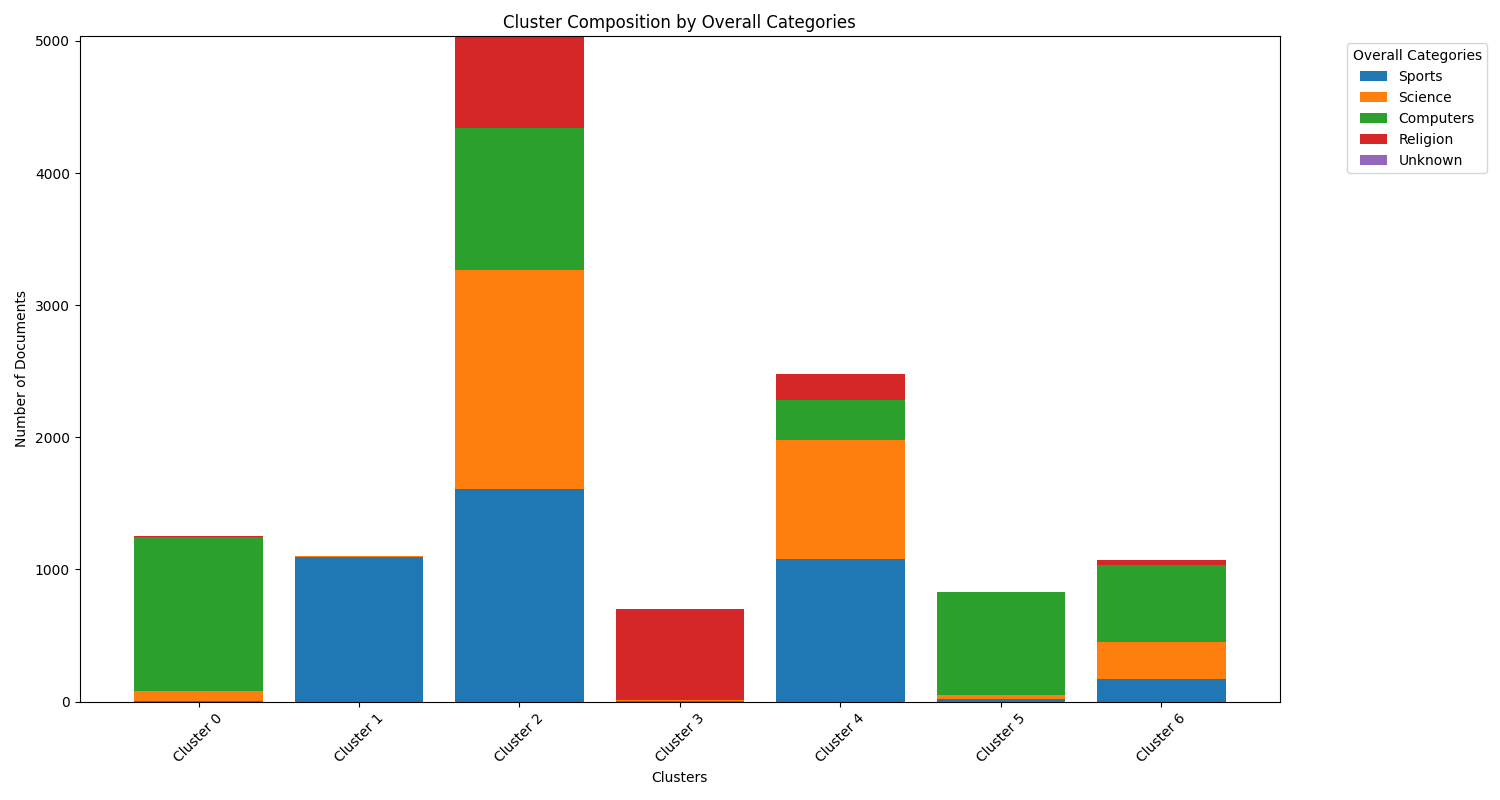
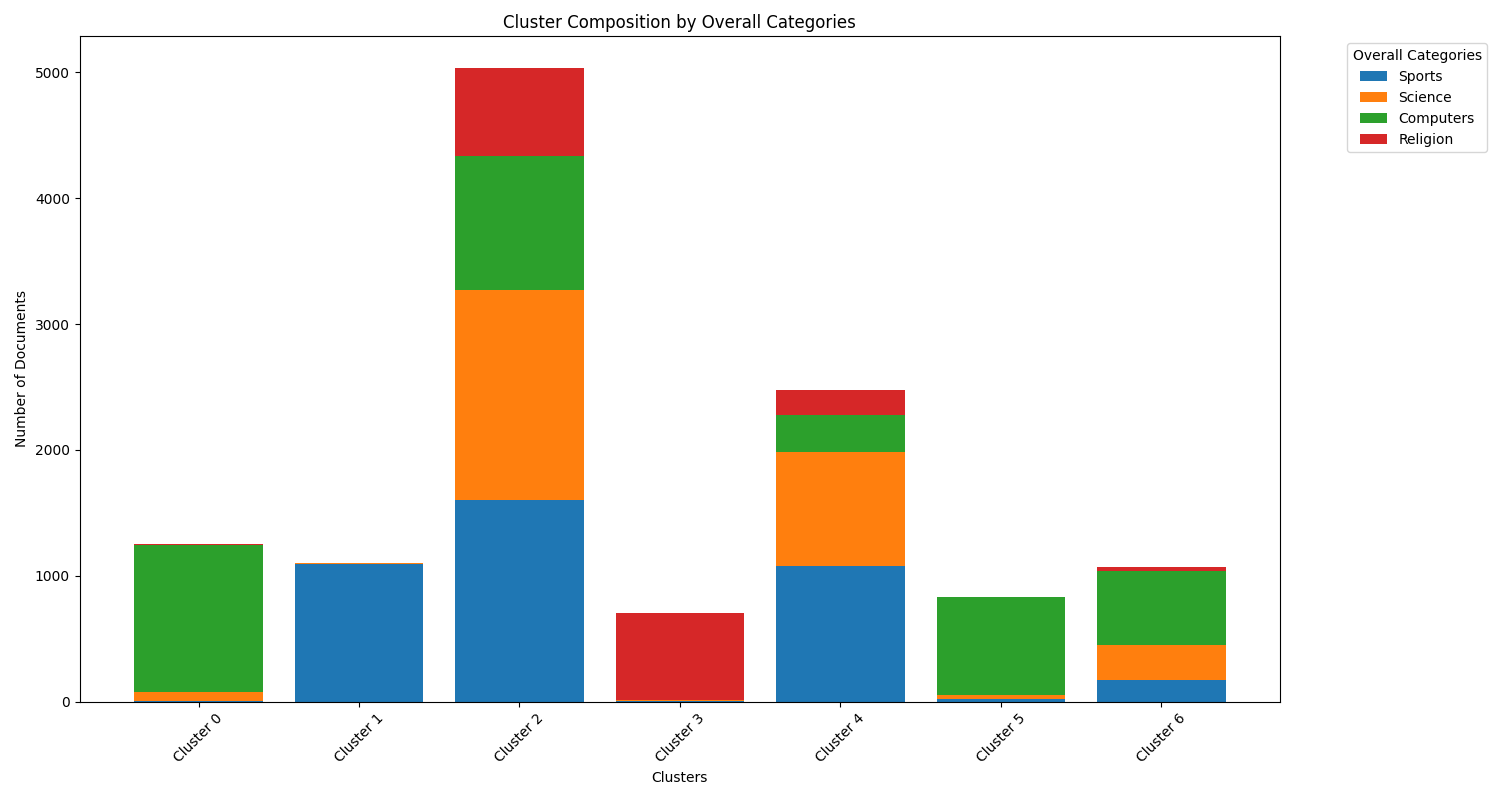
fixed one of the plots

diff --git a/evaluation/evaluation_kmeans.py b/evaluation/evaluation_kmeans.py
@@ -248,7 +248,7 @@ def visualize_cluster_counts(kmeans_labels, categories_of_documents):
         cluster_overall_counts[cluster] = overall_counts
 
     clusters_sorted = sorted(cluster_overall_counts.keys())
-    all_overall_categories = ["Sports", "Science", "Computers", "Religion", "Unknown"]
+    all_overall_categories = ["Sports", "Science", "Computers", "Religion"]
 
     #create matrix for counts: rows are clusters, columns are overall categories
     counts_matrix = []
